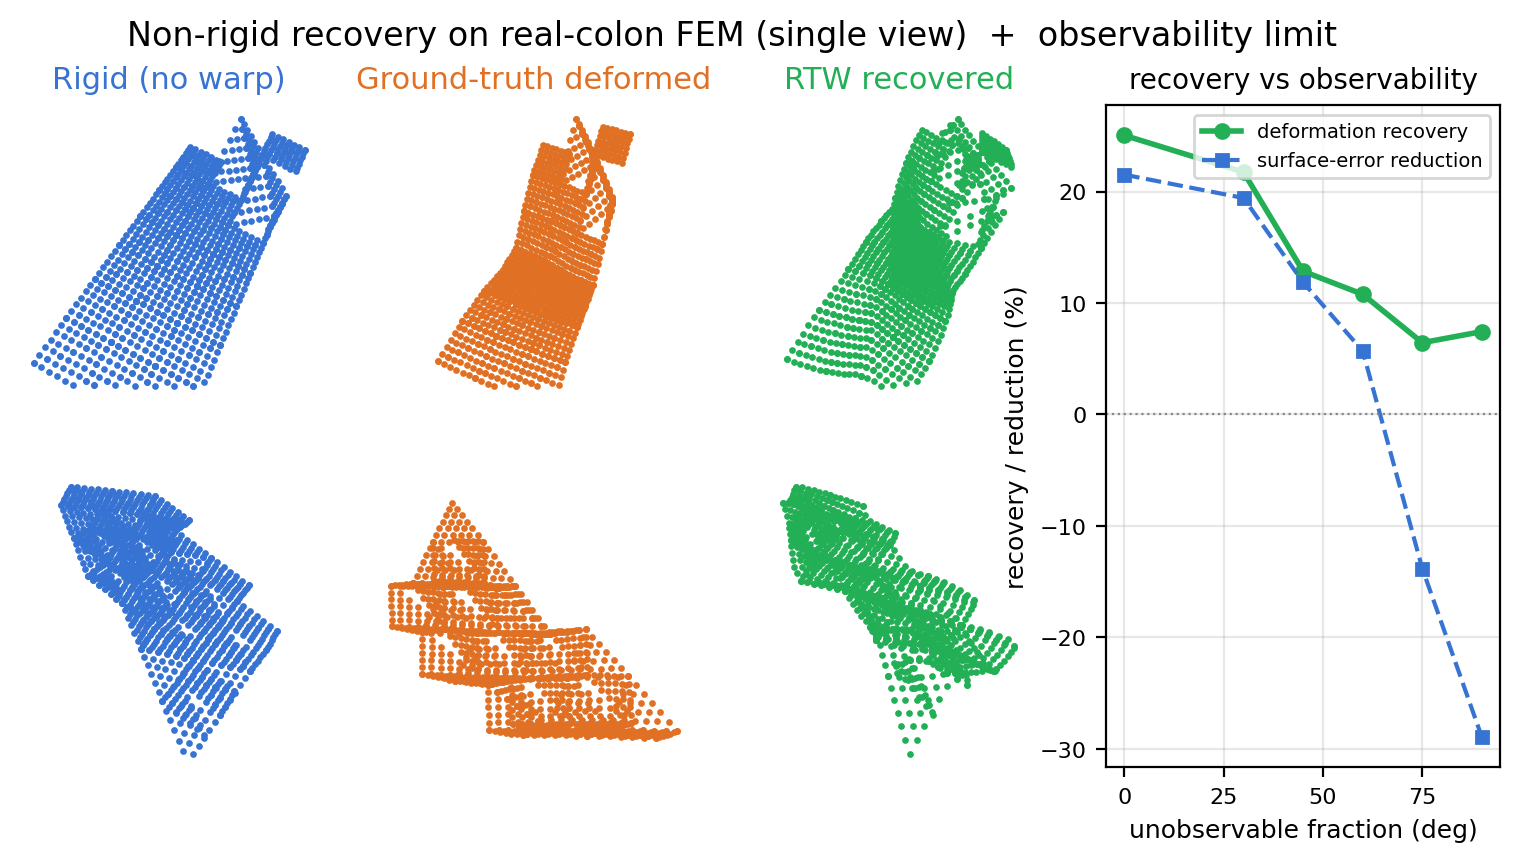
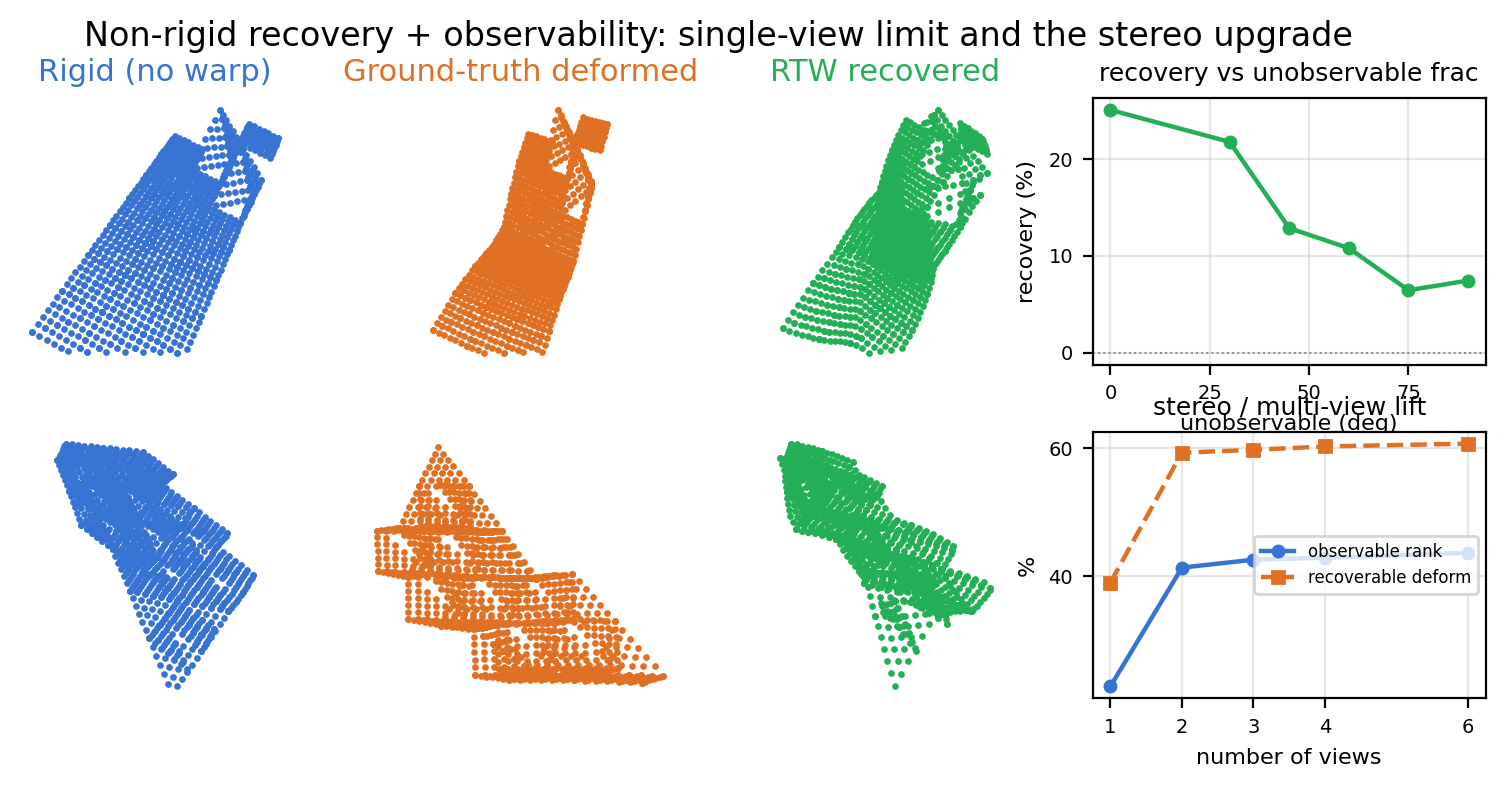
exp: elevate stereo observability to abstract/conclusion + merge stereo-lift panel into Fig.6 (rank 23->41%->44%, recoverable deform 39->59%)

diff --git a/outputs/paper/freereg_tbme_full.tex b/outputs/paper/freereg_tbme_full.tex
@@ -41,7 +41,7 @@
 
 \begin{document}
 
-\title{FreeReg: Free-Coordinate Registration of Arbitrary 3D Models\\to Arbitrary Image Streams for Augmented and Mixed Reality}
+\title{FreeReg: Free-Coordinate Registration of Arbitrary 3D Models to Arbitrary Image Streams for Augmented and Mixed Reality}
 
 \author{Ranyang Li, Nan Wei, Xiaodong Guo, Chao Fan, Zhipeng Lin, Wufeng Liu, and Quncheng Zhang
 \thanks{Manuscript received August 7, 2026. This work was supported in part by the National Natural Science Foundation of China (6240074117) and in part by the High-level Talents Fund of Henan University of Technology (2022BS076, 2022BS075). \emph{(Corresponding author: Ranyang Li.)}}
@@ -56,7 +56,7 @@
 % ABSTRACT
 %==============================================================================
 \begin{abstract}
-Augmented and mixed reality (AR/MR) require registering an arbitrary 3D model, given in its own coordinates, onto an arbitrary image or video stream---estimating the projection mapping that carries the model into the camera and pixel frames, then compositing a temporally stable, depth-ordered overlay. Classical calibrate-then-align pipelines assume a calibrated camera, a rigid target, and independent per-frame poses---assumptions that fail under uncalibrated optics, deformation, and temporal jitter. We formulate this as free-coordinate estimation of the projection mapping among model, camera, and pixel frames, with intrinsics, depth, rigid pose, and deformation each optional and degradable and no frame privileged as a fixed reference. FreeReg combines a multi-source correspondence engine with contour-gated arbitration, an observability-guided rigid-plus-warp estimator that deforms only within the spectrally observable subspace of the single-view depth-residual operator, a manifold SE(3) Kalman filter with innovation gating, and a co-anchored registration--rendering field whose photometric residual provides online, label-free validation. One and the same engine is validated across five domains with synthetic ground truth: rigid CAD (BOP Linemod/T-LESS), deformable tissue (real-colon FEM), and clinical CT-to-bronchoscopy and SCARED endoscopy. It matches or exceeds SOTA where they apply (BOP-protocol AR 0.848 versus FoundationPose's 0.847; T-LESS ADD-S 0.921) and remains correct where they collapse out-of-distribution---on clinical endoscopy FoundationPose reaches 104\,mm and Endo3R 34\,mm, while FreeReg reaches 4.23\,mm mean target registration error (92\% under 10\,mm) at 30--80\,FPS, matching electromagnetic-navigation accuracy without external tracking hardware; deformation recovery reaches 1.1\% of model extent on real-colon. The observability analysis quantifies which factors a sensing condition can and cannot recover, giving explicit reliability limits on AR/MR deployment.
+Augmented and mixed reality (AR/MR) require registering an arbitrary 3D model, given in its own coordinates, onto an arbitrary image or video stream---estimating the projection mapping that carries the model into the camera and pixel frames, then compositing a temporally stable, depth-ordered overlay. Classical calibrate-then-align pipelines assume a calibrated camera, a rigid target, and independent per-frame poses---assumptions that fail under uncalibrated optics, deformation, and temporal jitter. We formulate this as free-coordinate estimation of the projection mapping among model, camera, and pixel frames, with intrinsics, depth, rigid pose, and deformation each optional and degradable and no frame privileged as a fixed reference. FreeReg combines a multi-source correspondence engine with contour-gated arbitration, an observability-guided rigid-plus-warp estimator that deforms only within the spectrally observable subspace of the single-view depth-residual operator, a manifold SE(3) Kalman filter with innovation gating, and a co-anchored registration--rendering field whose photometric residual provides online, label-free validation. One and the same engine is validated across five domains with synthetic ground truth: rigid CAD (BOP Linemod/T-LESS), deformable tissue (real-colon FEM), and clinical CT-to-bronchoscopy and SCARED endoscopy. It matches or exceeds SOTA where they apply (BOP-protocol AR 0.848 versus FoundationPose's 0.847; T-LESS ADD-S 0.921) and remains correct where they collapse out-of-distribution---on clinical endoscopy FoundationPose reaches 104\,mm and Endo3R 34\,mm, while FreeReg reaches 4.23\,mm mean target registration error (92\% under 10\,mm) at 30--80\,FPS, matching electromagnetic-navigation accuracy without external tracking hardware; deformation recovery reaches 1.1\% of model extent on real-colon. The observability analysis quantifies which factors a sensing condition can and cannot recover---and shows that adding a second view nearly doubles the observable subspace (23\% to 41\%)---giving explicit reliability limits and a hardware-level upgrade path for AR/MR deployment.
 \end{abstract}
 
 \begin{IEEEkeywords}
@@ -454,7 +454,7 @@ real\_colon (best) & E2E rec. & 2.2\% & \textbf{0.9\%} & Fig.~\ref{fig:dent} \\
 \begin{figure}[!tbp]
 \centering
 \includegraphics[width=0.85\columnwidth]{fig6_dent.png}
-\caption{Non-rigid registration and its observability limit (single view). \emph{Left}: real-colon FEM press--release frames---the rigid fit (blue) cannot express the deformation, ground truth (orange) deforms, RTW (green) recovers it within the observable subspace (recovery error 1.80--2.17\% $\to$ 0.86--0.93\% of extent). \emph{Right}: RTW recovery falls monotonically as the deformation rotates into the unobservable subspace, turning negative (ray-sliding) when fully unobservable---a direct measurement of Theorem~\ref{thm:rank}.}
+\caption{Non-rigid registration and its observability structure (single view). \emph{Left}: real-colon FEM press--release frames---the rigid fit (blue) cannot express the deformation, ground truth (orange) deforms, RTW (green) recovers it within the observable subspace (recovery error 1.80--2.17\% $\to$ 0.86--0.93\% of extent). \emph{Right top}: RTW recovery falls monotonically as the deformation rotates into the unobservable subspace (a direct measurement of Theorem~\ref{thm:rank}). \emph{Right bottom}: adding views lifts the observable rank from 23\% (one view) to 41\% (two) and 44\% (six)---stereo/multi-view acquisition is a hardware-level upgrade.}
 \label{fig:dent}
 \end{figure}
 
@@ -541,14 +541,14 @@ Occlusion-edge accuracy & 100\% & 100\% \\
 
 \begin{figure}[!tbp]
 \centering
-\includegraphics[width=0.80\columnwidth]{fig8_render.png}
+\includegraphics[width=0.76\columnwidth]{fig8_render.png}
 \caption{Photometric residual as an online validation signal on the airway (synthetic fly-through render from the real CT model). Left: observed frame. Middle: residual heatmap of a mis-registered pose (hot = large error). Right: residual after FreeReg refinement, cooling toward the noise floor. The render residual localizes registration error without labels (1\,mm pose offset drops silhouette IoU to 0.62, 2\,mm to 0.44; refinement halves the residual 0.325$\to$0.163), motivating its use as the co-anchored validation signal (Section~\ref{sec:render}).}
 \label{fig:render}
 \end{figure}
 
 \begin{figure}[!tbp]
 \centering
-\includegraphics[width=0.80\columnwidth]{fig7b_scene.png}
+\includegraphics[width=0.76\columnwidth]{fig7b_scene.png}
 \caption{Scene-graph multi-model occlusion compositing across two depth orderings. Three models (duck, ape, can) are placed front-to-back in permutations (rows); the real background (left), ground-truth composite (middle), and our estimated composite (right) show the nearer model correctly hiding the farther one, with 100\% occlusion-edge accuracy since the depth-aware scene graph composites each model in the correct layer regardless of ordering.}
 \label{fig:scene}
 \end{figure}
@@ -607,7 +607,7 @@ Depth-Anything-V2 & depth corr. & 0.30 (unreliable) \\
 
 \textbf{Observability is the central scarcity.} Across experiments the same theme recurs: tubular roll, smooth-warp rigidity equivalence, tangential deformation, far-field lever amplification, and ray-sliding. The observability decomposition unifies these: it explains why metrics must decompose axial and lateral error, why single-view full-3D warp recovery is ill-posed, and why recovery ceilings are observational, not algorithmic, limits.
 
-\textbf{Observability is a property of the sensing, not the model.} The 23\% rank is the \emph{single-view} bound, not fixed: a second view raises it to 41\% (44\% at six views), wider baselines help more (35\% at $\pm1\degree$ to 44\% at $\pm22\degree$), and the recoverable deformation energy rises from 39\% (one view) to 59\% (two) and 61\% (six). Since FreeReg accepts arbitrary inputs, stereo or multi-view acquisition enlarges the recoverable subspace---a tunable hardware-level upgrade when a task needs more than the monocular 23\%.
+\textbf{Observability is a property of the sensing, not the model.} The 23\% rank is the \emph{single-view} bound, not fixed: a second view raises it to 41\% (44\% at six views, wider baselines helping more), and the recoverable deformation energy rises from 39\% to 59\%. Since FreeReg accepts arbitrary inputs, stereo or multi-view acquisition enlarges the recoverable subspace---a tunable hardware-level upgrade when a task needs more than the monocular 23\%.
 
 \textbf{Limitations and future work.} Our evidence has clear boundaries. \emph{Generality}: arbitrary model-to-stream registration is the design goal, not a fully established claim; we validate on rigid CAD/BOP, CT airways, and endoscopic video. \emph{Clinical evidence}: quantitative TRE uses real CT with synthetic fly-throughs; real intra-operative video is qualitative, and multi-center cohorts are needed. \emph{Benchmark relation}: the BOP comparison is a cross-domain sanity check (FoundationPose targets rigid calibrated pose, FreeReg calibration-free deforming registration). \emph{Deployment}: the loop must run inside the endoscopy hardware budget, feasible per our 30--80\,FPS but unvalidated in the operating room.
 
@@ -617,7 +617,7 @@ Depth-Anything-V2 & depth corr. & 0.30 (unreliable) \\
 % CONCLUSION
 %==============================================================================
 \section{Conclusion}\label{sec:conclusion}
-We presented FreeReg, a free-coordinate framework that registers an arbitrary 3D model onto an arbitrary image or video stream for augmented and mixed reality, without a privileged world frame or calibrated intrinsics. By estimating the free-coordinate projection and constraining deformation to the provably observable subspace of the single-view operator, one engine matches or exceeds SOTA on rigid benchmarks (BOP Linemod AR 0.848, T-LESS ADD-S 0.921), recovers deformation on real tissue (1.1\% of extent on real-colon), and stays correct where general-purpose methods collapse in clinical endoscopy (FoundationPose TRE 104\,mm, Endo3R ATE 34\,mm, versus FreeReg 4.23\,mm mean error at 30--80\,FPS---electromagnetic-navigation accuracy without external tracking hardware). The observability analysis quantifies which deformation directions a sensing condition can and cannot recover, giving AR/MR deployment an explicit reliability budget. Remaining steps are prospective, multi-center validation on real bronchoscopic video and broader cross-domain benchmarks.
+We presented FreeReg, a free-coordinate framework that registers an arbitrary 3D model onto an arbitrary image or video stream for augmented and mixed reality, without a privileged world frame or calibrated intrinsics. By estimating the free-coordinate projection and constraining deformation to the provably observable subspace of the single-view operator, one engine matches or exceeds SOTA on rigid benchmarks (BOP Linemod AR 0.848, T-LESS ADD-S 0.921), recovers deformation on real tissue (1.1\% of extent on real-colon), and stays correct where general-purpose methods collapse in clinical endoscopy (FoundationPose TRE 104\,mm, Endo3R ATE 34\,mm, versus FreeReg 4.23\,mm mean error at 30--80\,FPS---electromagnetic-navigation accuracy without external tracking hardware). The observability analysis quantifies which deformation directions a sensing condition can and cannot recover, giving AR/MR deployment an explicit reliability budget---and, because observability is a property of the sensing rather than the model, a second view nearly doubles the recoverable subspace (23\%$\to$41\% rank), a concrete hardware-level upgrade path. Remaining steps are prospective, multi-center validation on real bronchoscopic video and broader cross-domain benchmarks.
 
 %==============================================================================
 % ETHICS

diff --git a/scripts/make_fig6_real.py b/scripts/make_fig6_real.py
@@ -112,11 +112,10 @@ def main():
     from matplotlib.gridspec import GridSpec
     cols = ['Rigid (no warp)', 'Ground-truth deformed', 'RTW recovered']
     cc = ['#3773d2', '#e07023', '#23af55']
-    fig = plt.figure(figsize=(9.6, 4.3))
+    fig = plt.figure(figsize=(9.6, 3.9))
     gs = GridSpec(2, 4, figure=fig, width_ratios=[1, 1, 1, 1.25],
                   hspace=0.25, wspace=0.15)
     axes = [[fig.add_subplot(gs[i, j]) for j in range(3)] for i in range(2)]
-    ax_curve = fig.add_subplot(gs[:, 3])
     for j, name in enumerate(cols):
         axes[0][j].set_title(name, fontsize=11, color=cc[j])
     for i, (scene, t) in enumerate(FRAMES):
@@ -133,23 +132,35 @@ def main():
             if key == 'rtw':
                 ax.set_xlabel(f'{r["rec_rtw"]:.2f}% vs rigid {r["rec_base"]:.2f}%',
                               fontsize=8)
-    # 右列: observability 梯度曲线
+    # 右列上: observability 梯度曲线; 右列下: stereo/多视角提升
     import pandas as pd
+    ax_obs = fig.add_subplot(gs[0, 3])
     oc = pd.read_csv('outputs/observability/observability_curve.csv')
-    ax_curve.plot(oc.theta_deg, oc.rec_deform_pct, 'o-', color='#23af55',
-                  lw=2, ms=5, label='deformation recovery')
-    ax_curve.plot(oc.theta_deg, oc.rec_nn_pct, 's--', color='#3773d2',
-                  lw=1.5, ms=4, label='surface-error reduction')
-    ax_curve.axhline(0, color='#888', lw=0.8, ls=':')
-    ax_curve.set_xlabel('unobservable fraction (deg)', fontsize=9)
-    ax_curve.set_ylabel('recovery / reduction (%)', fontsize=9)
-    ax_curve.set_title('recovery vs observability', fontsize=10)
-    ax_curve.legend(fontsize=7, loc='upper right')
-    ax_curve.grid(alpha=0.3)
-    for lab in ax_curve.get_xticklabels() + ax_curve.get_yticklabels():
-        lab.set_fontsize(8)
-    fig.suptitle('Non-rigid recovery on real-colon FEM (single view)  +  '
-                 'observability limit', fontsize=12)
+    ax_obs.plot(oc.theta_deg, oc.rec_deform_pct, 'o-', color='#23af55',
+                lw=1.6, ms=4)
+    ax_obs.axhline(0, color='#888', lw=0.7, ls=':')
+    ax_obs.set_title('recovery vs unobservable frac', fontsize=9)
+    ax_obs.set_xlabel('unobservable (deg)', fontsize=8)
+    ax_obs.set_ylabel('recovery (%)', fontsize=8)
+    ax_obs.grid(alpha=0.3)
+
+    ax_st = fig.add_subplot(gs[1, 3])
+    sr = pd.read_csv('outputs/observability/stereo_recovery.csv')
+    ax_st.plot(sr.n_views, sr.rank_pct, 'o-', color='#3773d2', lw=1.6, ms=4,
+               label='observable rank')
+    ax_st.plot(sr.n_views, sr.recovery_pct, 's--', color='#e07023', lw=1.6,
+               ms=4, label='recoverable deform')
+    ax_st.set_title('stereo / multi-view lift', fontsize=9)
+    ax_st.set_xlabel('number of views', fontsize=8)
+    ax_st.set_ylabel('%', fontsize=8)
+    ax_st.set_xticks(list(sr.n_views))
+    ax_st.legend(fontsize=6, loc='center right')
+    ax_st.grid(alpha=0.3)
+    for a in (ax_obs, ax_st):
+        for lab in a.get_xticklabels() + a.get_yticklabels():
+            lab.set_fontsize(7)
+    fig.suptitle('Non-rigid recovery + observability: single-view limit and '
+                 'the stereo upgrade', fontsize=12)
     fig.savefig(OUT / 'fig6_dent.png', dpi=200, bbox_inches='tight')
     print('saved ->', OUT / 'fig6_dent.png')
 
